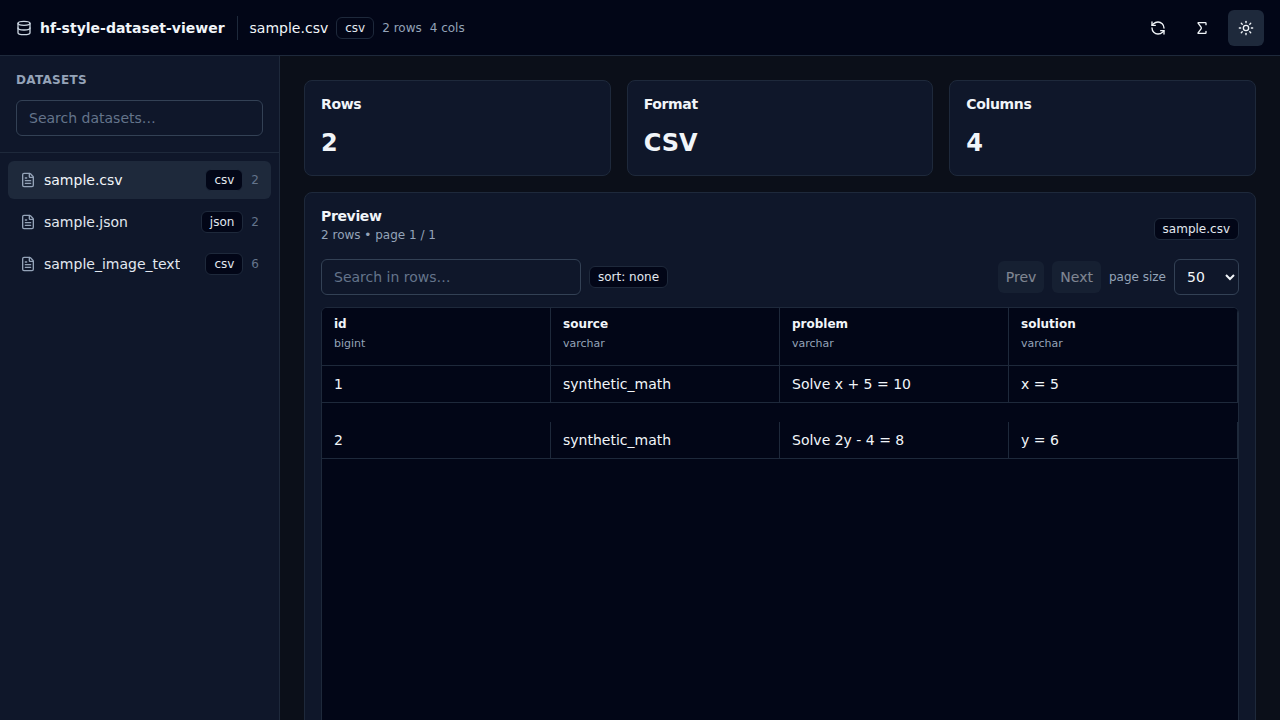
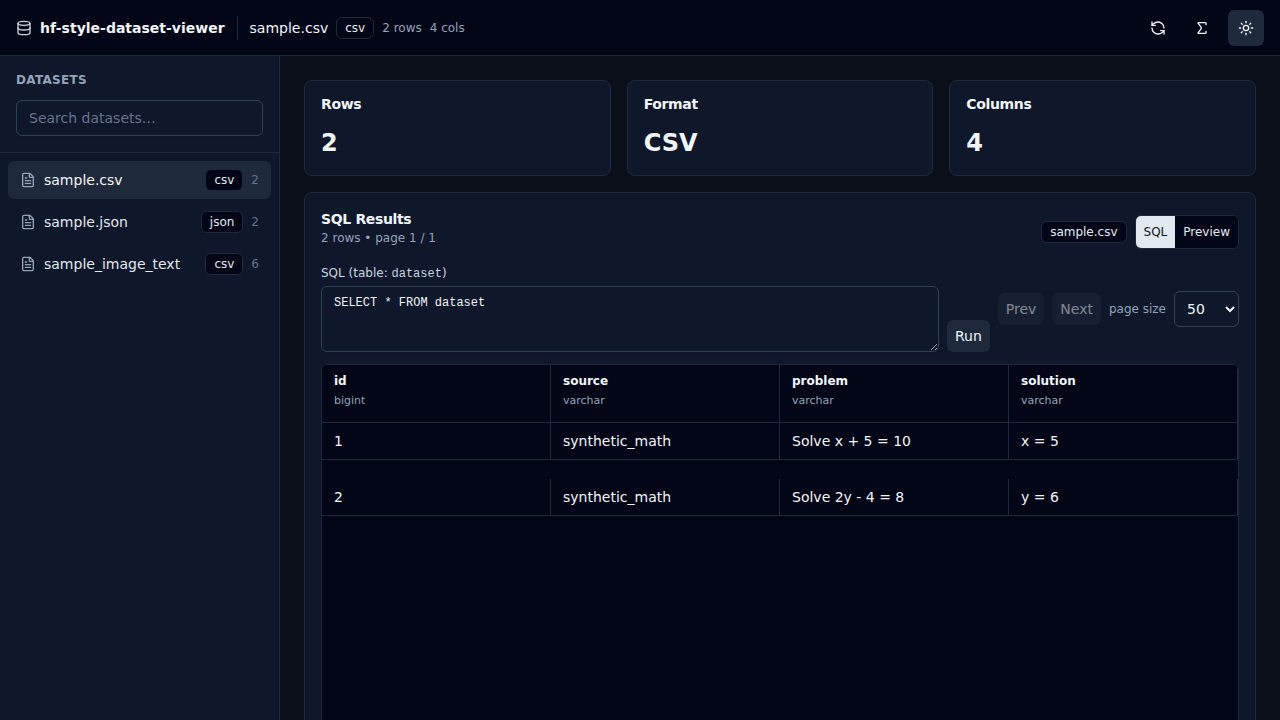
docs: update screenshots for SQL UI

diff --git a/README.md b/README.md
@@ -16,6 +16,7 @@ A local-first dataset explorer inspired by the Hugging Face Dataset Viewer.
 - Fast backend preview with DuckDB
 - Table viewer with sticky header + horizontal scroll
 - Server-side pagination, sorting, and global search
+- SQL query editor (DuckDB, local)
 - Image thumbnails for `*.png/*.jpg/*.webp` path columns (e.g. `image_path`)
 - Row virtualization for smooth scrolling
 - Dataset statistics endpoint (missing/unique/numeric summaries)
@@ -97,6 +98,7 @@ Visit `http://localhost:5173`.
 - `GET /datasets/{name}/schema`
 - `GET /datasets/{name}/stats`
 - `GET /datasets/{name}/preview?page=1&page_size=100&search=...&sort_by=...&sort_dir=asc|desc`
+- `POST /datasets/{name}/query`
 - `GET /datasets/{name}/statistics`
 
 ## Roadmap
